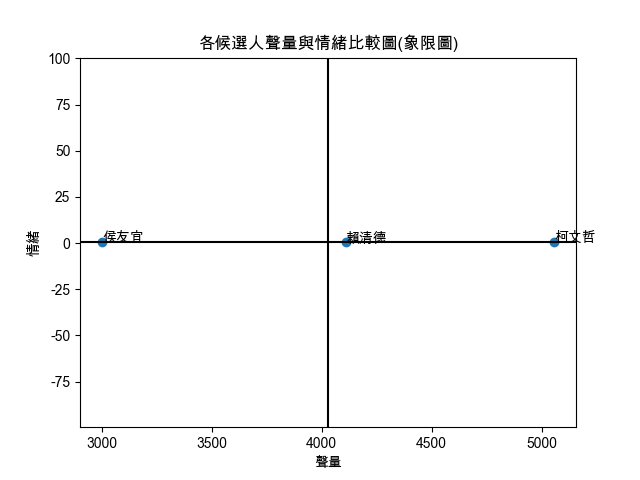
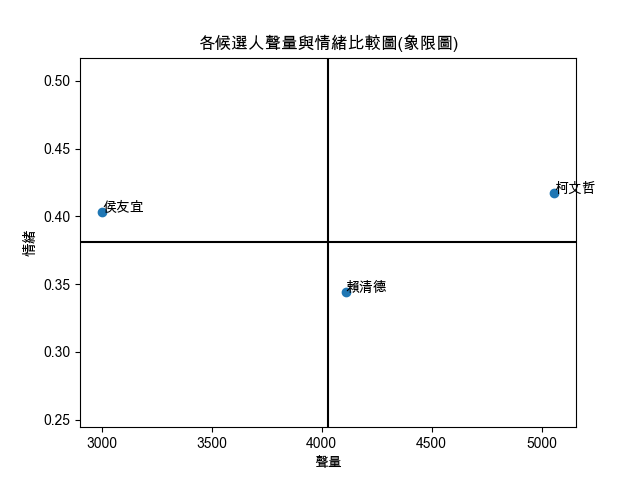
Fix: the chart upper and lower are too much.

diff --git a/src/draw_data.py b/src/draw_data.py
@@ -71,8 +71,8 @@ def drawPrincipalVolumeAndSentimentScatter(dataframe: pd.DataFrame):
     # 取得x軸與y軸最大值
     minx = min(principleVolumes-100)
     maxx = max(principleVolumes+100)
-    miny = min(principleSentiments-100)
-    maxy = max(principleSentiments+100)
+    miny = min(principleSentiments-0.1)
+    maxy = max(principleSentiments+0.1)
 
     # 繪製x軸與y軸
     plt.axhline(miny + (maxy - miny) / 2, color='black')
@@ -83,6 +83,8 @@ def drawPrincipalVolumeAndSentimentScatter(dataframe: pd.DataFrame):
     plt.ylim(miny, maxy)
 
     # 繪製象限圖
+    print(principleVolumes)
+    print(principleSentiments)
     plt.scatter(principleVolumes, principleSentiments)
     for i in range(len(principleVolumes)):
         plt.annotate(principleVolumes.index[i], (principleVolumes[i], principleSentiments[i]))

diff --git a/entrypoint.py b/entrypoint.py
@@ -62,7 +62,7 @@ def getProcessedDataChart():
     #drawPrincipalSentimentLine(df)
 
     # 各候選人聲量與情緒比較圖(象限圖)
-    #drawPrincipalVolumeAndSentimentScatter(df)
+    drawPrincipalVolumeAndSentimentScatter(df)
 
     # 各候選人與關鍵字聲量比較折現圖
     #drawPrincipalCustomKeywordLine(df)
@@ -71,7 +71,7 @@ def getProcessedDataChart():
     #drawPrincipalCustomKeywordSentimentScatter(df)
 
     # 自訂關鍵字聲量與情緒分群比較折線圖
-    drawPrincipalCustomKeywordSegimentsGroupLine(df)
+    #drawPrincipalCustomKeywordSegimentsGroupLine(df)
 
 if __name__ == '__main__':
   #getProcessedData()
